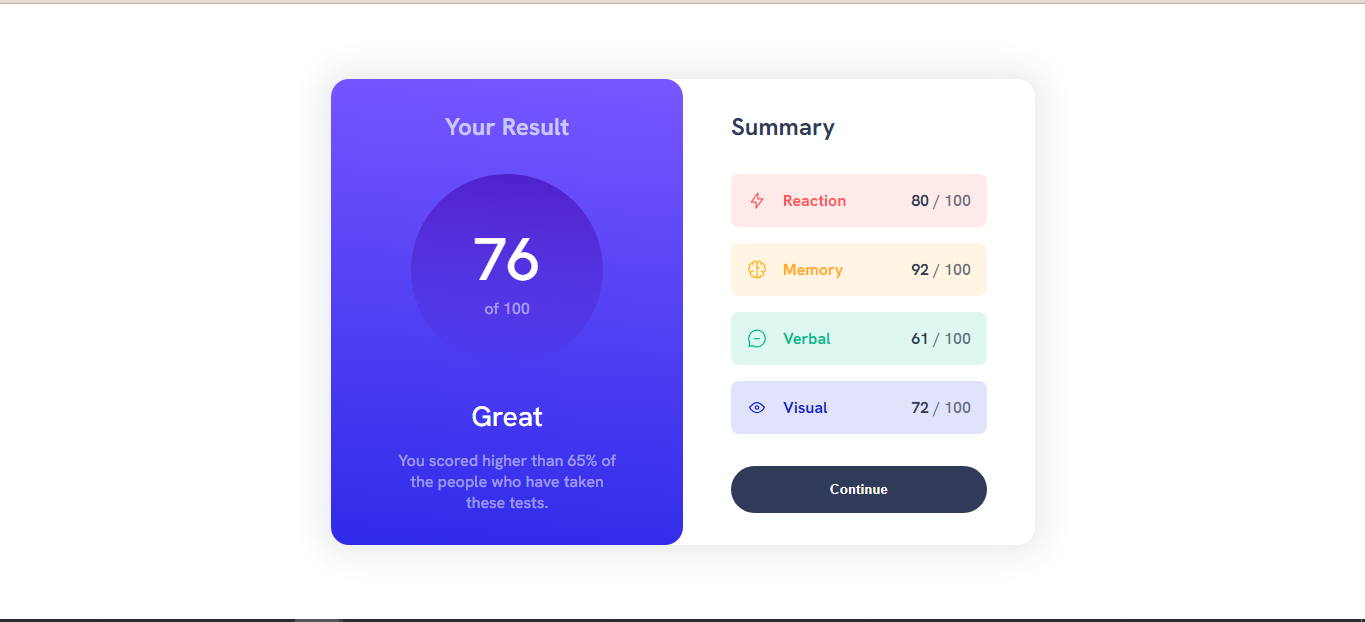
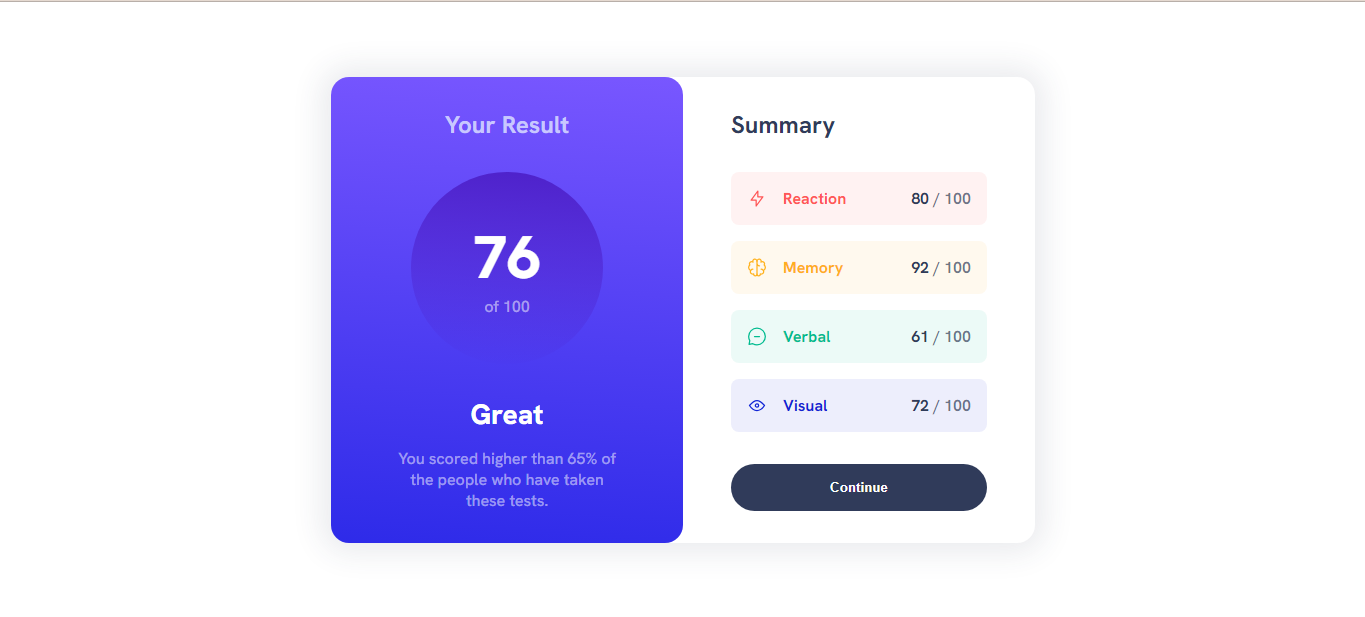
fix minor typography mismatch

diff --git a/index.html b/index.html
@@ -22,10 +22,10 @@
     <section class="result-section">
       <h1>Your Result</h1>
       <div class="result-circle">
-        <p class="transparent-text"><span>76</span>of 100</p>
+        <p class="transparent-text"><span class="black">76</span>of 100</p>
       </div>
       <div class="result-description">
-        <p class="larger-text">Great</p>
+        <p class="larger-text black">Great</p>
         <p class="transparent-text">You scored higher than 65% of the people who have taken these tests.</p>
       </div>
     </section>
@@ -36,34 +36,34 @@
         <div class="flex-container">
           <div class="score-part accent-1">
             <div class="flex-group">
-              <img src="./assets/images/icon-reaction.svg" class="icon" alt="Thunder icon"></img>
-              <p class="skill">Reaction</p>
+              <img src="./assets/images/icon-reaction.svg" class="icon"></img>
+              <p class="skill bold">Reaction</p>
             </div>
-            <p class="individual-score"><span>80</span><span class="max-score"> / 100</span></p>
+            <p class="individual-score bold"><span>80</span><span class="max-score"> / 100</span></p>
           </div>
           <div class="score-part accent-2">
             <div class="flex-group">
-              <img src="./assets/images/icon-memory.svg" class="icon" alt="Brain icon"></img>
-              <p class="skill">Memory</p>
+              <img src="./assets/images/icon-memory.svg" class="icon"></img>
+              <p class="skill bold">Memory</p>
             </div>
-            <p class="individual-score"><span>92</span><span class="max-score"> / 100</span></p>
+            <p class="individual-score bold"><span>92</span><span class="max-score"> / 100</span></p>
           </div>
           <div class="score-part accent-3">
             <div class="flex-group">
-              <img src="./assets/images/icon-verbal.svg" class="icon" alt="Dialogue icon"></img>
-              <p class="skill">Verbal</p>
+              <img src="./assets/images/icon-verbal.svg" class="icon"></img>
+              <p class="skill bold">Verbal</p>
             </div>
-            <p class="individual-score"><span>61</span><span class="max-score"> / 100</span></p>
+            <p class="individual-score bold"><span>61</span><span class="max-score"> / 100</span></p>
           </div>
           <div class="score-part accent-4">
             <div class="flex-group">
-              <img src="./assets/images/icon-visual.svg" class="icon" alt="Eye icon"></img>
-              <p class="skill">Visual</p>
+              <img src="./assets/images/icon-visual.svg" class="icon"></img>
+              <p class="skill bold">Visual</p>
             </div>
-            <p class="individual-score"><span>72</span><span class="max-score"> / 100</span></p>
+            <p class="individual-score bold"><span>72</span><span class="max-score"> / 100</span></p>
           </div>
         </div>
-        <button>Continue</button>
+        <button class="bold">Continue</button>
       </div>
     </section>
   </main>

diff --git a/assets/styles/style.css b/assets/styles/style.css
@@ -69,6 +69,14 @@ main {
     box-shadow: 0px 0px 30px 10px hsla(var(--color-gray-blue), 0.1);
 }
 
+.bold {
+    font-weight: var(--fw-700);
+}
+
+.black {
+    font-weight: var(--fw-800);
+}
+
 /* ==== Left Side (Result Section) ==== */
 
 .result-circle {
@@ -157,13 +165,13 @@ main {
     color: hsla(var(--color-gray-blue), 0.7);
 }
 
-.skill,
+/* .skill,
 .individual-score {
     font-weight: var(--fw-700);
-}
+} */
 
 .accent-1 {
-    background-color: hsla(var(--color-light-red), 0.125);
+    background-color: hsla(var(--color-light-red), 0.075);
 }
 
 div.accent-1 .skill {
@@ -171,7 +179,7 @@ div.accent-1 .skill {
 }
 
 .accent-2 {
-    background-color: hsla(var(--color-orangey), 0.125);
+    background-color: hsla(var(--color-orangey), 0.075);
 }
 
 div.accent-2 .skill {
@@ -179,7 +187,7 @@ div.accent-2 .skill {
 }
 
 .accent-3 {
-    background-color: hsla(var(--color-green-teal), 0.125)
+    background-color: hsla(var(--color-green-teal), 0.075)
 }
 
 div.accent-3 .skill {
@@ -187,7 +195,7 @@ div.accent-3 .skill {
 }
 
 .accent-4 {
-    background-color: hsla(var(--color-cobalt), 0.125)
+    background-color: hsla(var(--color-cobalt), 0.075)
 }
 
 div.accent-4 .skill {
@@ -205,7 +213,6 @@ button {
     background-color: hsla(var(--color-gray-blue), 1);
     color: hsla(var(--color-white), 1);
     padding: 1rem;
-    font-weight: var(--fw-700);
     border: 0;
 }
 
